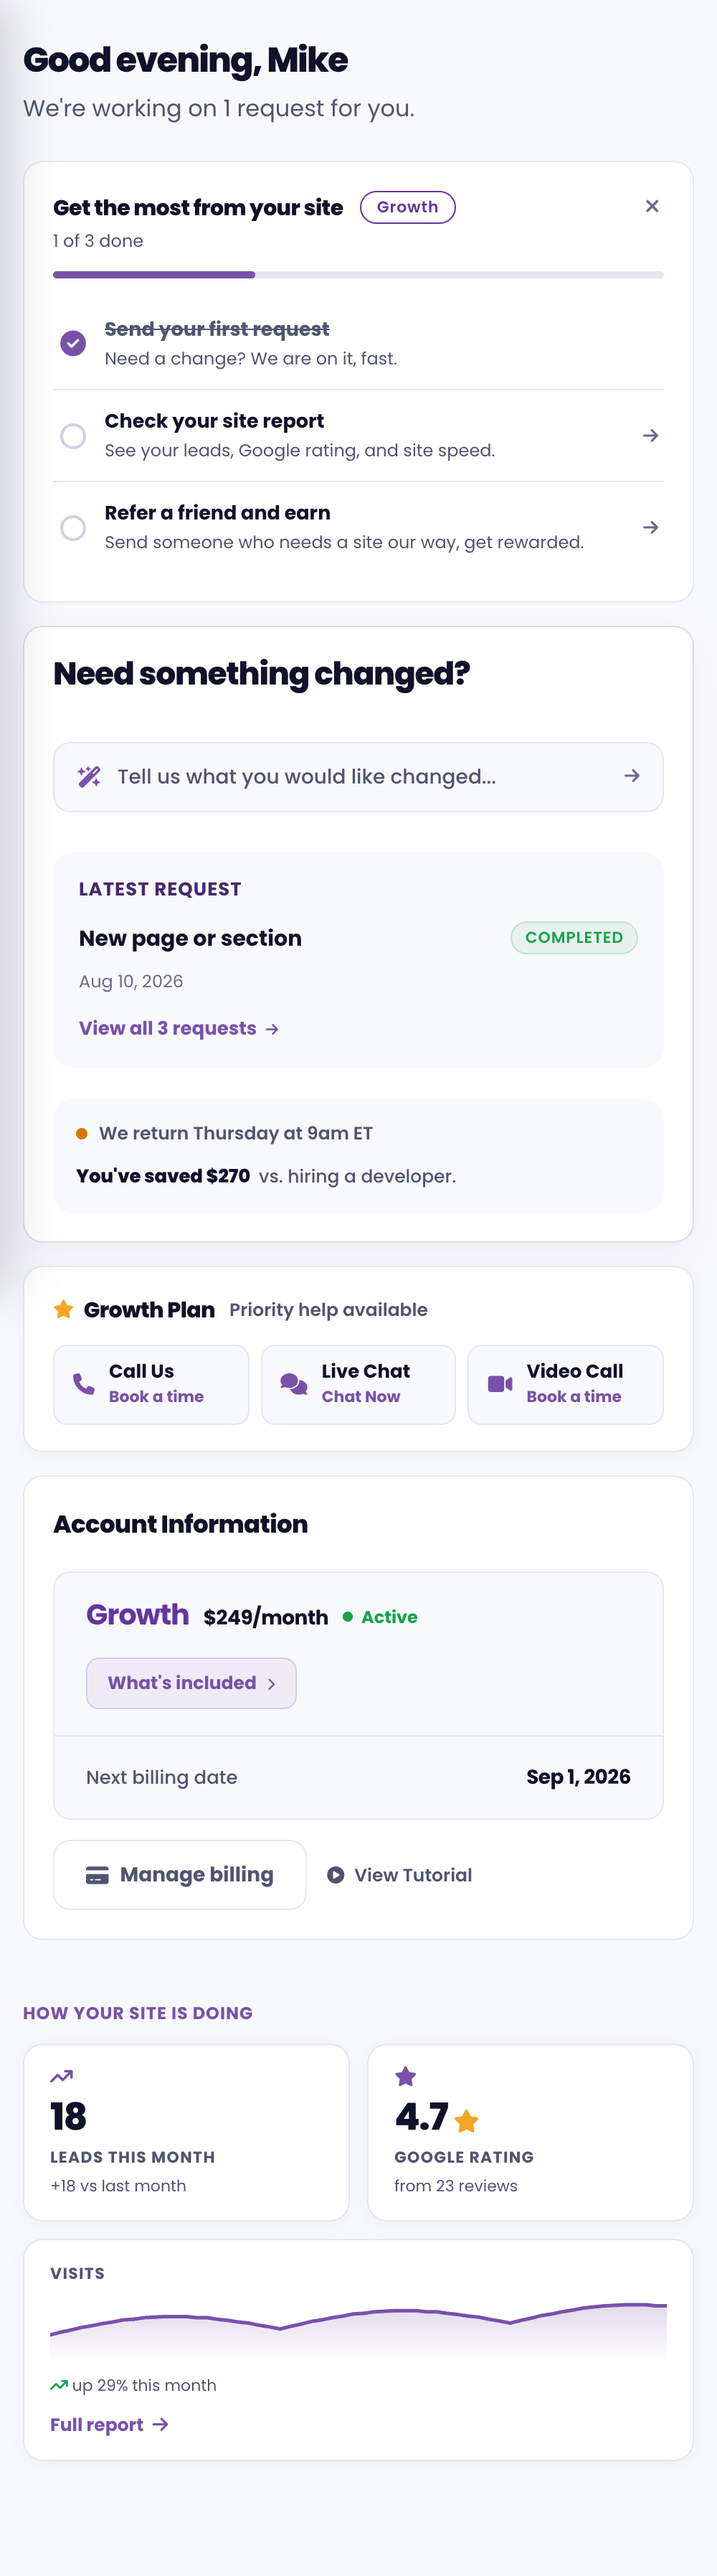
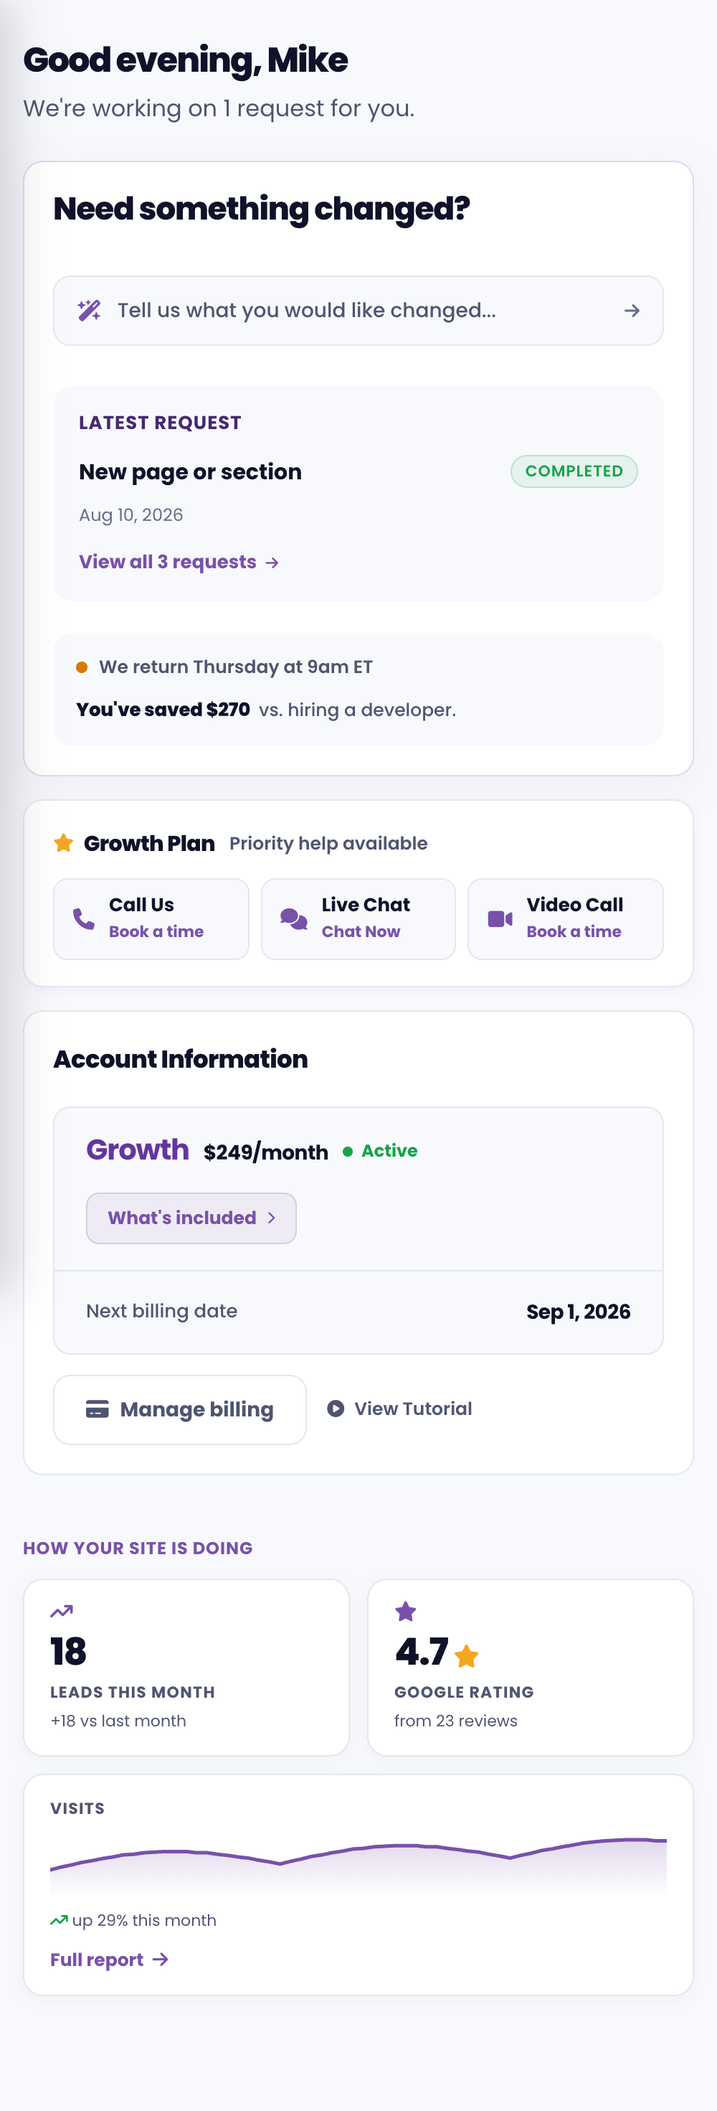
fix: update home page and dashboard screenshots

diff --git a/samples.html b/samples.html
@@ -641,7 +641,7 @@ a, a:hover, a:focus { text-decoration: none !important; }
       </picture>
     </a>
     <div class="work-text">
-      <div class="work-eyebrow">Education &middot; Tutoring &amp; test prep</div>
+      <div class="work-eyebrow">Education</div>
       <h2 class="work-name">Ibis Prep</h2>
       <p class="work-story">A referral-driven tutoring business got a polished, lead-generating site, with clear program pages, tutor bios, and a simple intake form.</p>
       <div class="work-stats">
